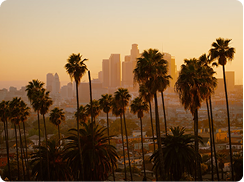
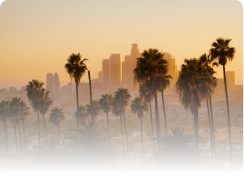
last update

diff --git a/lib/presentationLayer/page/dashboard.dart b/lib/presentationLayer/page/dashboard.dart
@@ -48,34 +48,40 @@ class Dashboard extends StatelessWidget {
             children: [
               Header(),
               const SizedBox(height: 30),
-              Padding(padding: const EdgeInsets.all(16.0), child: Items()),
+              Padding(
+                padding: const EdgeInsets.symmetric(horizontal: 70.0),
+                child: Items(),
+              ),
               const SizedBox(height: 50),
 
-              SingleChildScrollView(
-                scrollDirection: Axis.horizontal,
-                child: Column(
-                  children: [
-                    Row(
-                      children: [
-                        CustomCard(image: 'assets/images/pic3.png'),
-                        CustomCard(image: 'assets/images/pic1.png'),
-                        CustomCard(image: 'assets/images/pic2.png'),
-                        CustomCard(image: 'assets/images/pic3.png'),
-                        CustomCard(image: 'assets/images/pic3.png'),
-                        CustomCard(image: 'assets/images/pic3.png'),
-                      ],
-                    ),
-                    Row(
-                      children: [
-                        CustomCard(image: 'assets/images/pic3.png'),
-                        CustomCard(image: 'assets/images/pic1.png'),
-                        CustomCard(image: 'assets/images/pic2.png'),
-                        CustomCard(image: 'assets/images/pic3.png'),
-                        CustomCard(image: 'assets/images/pic3.png'),
-                        CustomCard(image: 'assets/images/pic3.png'),
-                      ],
-                    ),
-                  ],
+              Padding(
+                padding: const EdgeInsets.symmetric(horizontal: 42.0),
+                child: SingleChildScrollView(
+                  scrollDirection: Axis.horizontal,
+                  child: Column(
+                    children: [
+                      Row(
+                        children: [
+                          CustomCard(image: 'assets/images/pic3.png'),
+                          CustomCard(image: 'assets/images/pic1.png'),
+                          CustomCard(image: 'assets/images/pic2.png'),
+                          CustomCard(image: 'assets/images/pic3.png'),
+                          CustomCard(image: 'assets/images/pic3.png'),
+                          CustomCard(image: 'assets/images/pic3.png'),
+                        ],
+                      ),
+                      Row(
+                        children: [
+                          CustomCard(image: 'assets/images/pic3.png'),
+                          CustomCard(image: 'assets/images/pic1.png'),
+                          CustomCard(image: 'assets/images/pic2.png'),
+                          CustomCard(image: 'assets/images/pic3.png'),
+                          CustomCard(image: 'assets/images/pic3.png'),
+                          CustomCard(image: 'assets/images/pic3.png'),
+                        ],
+                      ),
+                    ],
+                  ),
                 ),
               ),
             ],

diff --git a/lib/presentationLayer/widget/card.dart b/lib/presentationLayer/widget/card.dart
@@ -10,14 +10,15 @@ class CustomCard extends StatelessWidget {
   @override
   Widget build(BuildContext context) {
     if (Responsive.isMobile(context) || Responsive.isTablet(context)) {
+      double screenHeight = MediaQuery.of(context).size.height;
       return ClipRRect(
         borderRadius: BorderRadius.only(
           topRight: Radius.circular(12),
           topLeft: Radius.circular(12),
         ),
         child: SizedBox(
-          height: MediaQuery.of(context).size.height * 0.7,
-          width: MediaQuery.of(context).size.width,
+          height: screenHeight * 0.5, // Adjust height to 50% of screen height
+          width: 290,
           child: Card(
             elevation: 0,
             color: const Color(0xFF171717),
@@ -31,7 +32,7 @@ class CustomCard extends StatelessWidget {
               children: [
                 Stack(
                   children: [
-                    // Background Image
+                    // Background Image with Blur Effect
                     ClipRRect(
                       borderRadius: BorderRadius.only(
                         topRight: Radius.circular(12),
@@ -61,8 +62,9 @@ class CustomCard extends StatelessWidget {
                     ),
 
                     // Status Chip
-                    Padding(
-                      padding: const EdgeInsets.only(top: 340.0, left: 16.0),
+                    Positioned(
+                      bottom: 0,
+                      left: 16,
                       child: Container(
                         width: 165,
                         height: 35,

diff --git a/lib/presentationLayer/widget/header.dart b/lib/presentationLayer/widget/header.dart
@@ -200,10 +200,30 @@ class _HeaderState extends State<Header> {
                 ),
               ),
             ),
-            Container(
-              color: Colors.black,
+            Stack(
+              children: [
+                // الخط الرمادي الأساسي (Divider)
+                Divider(
+                  color: const Color(0xFF262626),
+                  height: 2, // ارتفاع الخط
+                  thickness: 2.2, // سماكة الخط
+                ),
 
-              child: Divider(color: const Color(0xFF262626)),
+                // الخط الأصفر المتحرك (Indicator)
+                AnimatedPositioned(
+                  duration: const Duration(milliseconds: 300),
+                  left:
+                      1825 +
+                      (selectedIndex *
+                          77.0), // 80 = padding الأفقي + تعديل حسب المسافة
+                  bottom: 0,
+                  child: Container(
+                    height: 2,
+                    width: 40, // عرض الخط الأصفر
+                    color: Colors.amber,
+                  ),
+                ),
+              ],
             ),
           ],
         ),
@@ -218,11 +238,11 @@ class NavItem extends StatelessWidget {
   final VoidCallback? onTap;
 
   const NavItem({
-    Key? key,
+    super.key,
     required this.text,
     this.isSelected = false,
     this.onTap,
-  }) : super(key: key);
+  });
 
   @override
   Widget build(BuildContext context) {
